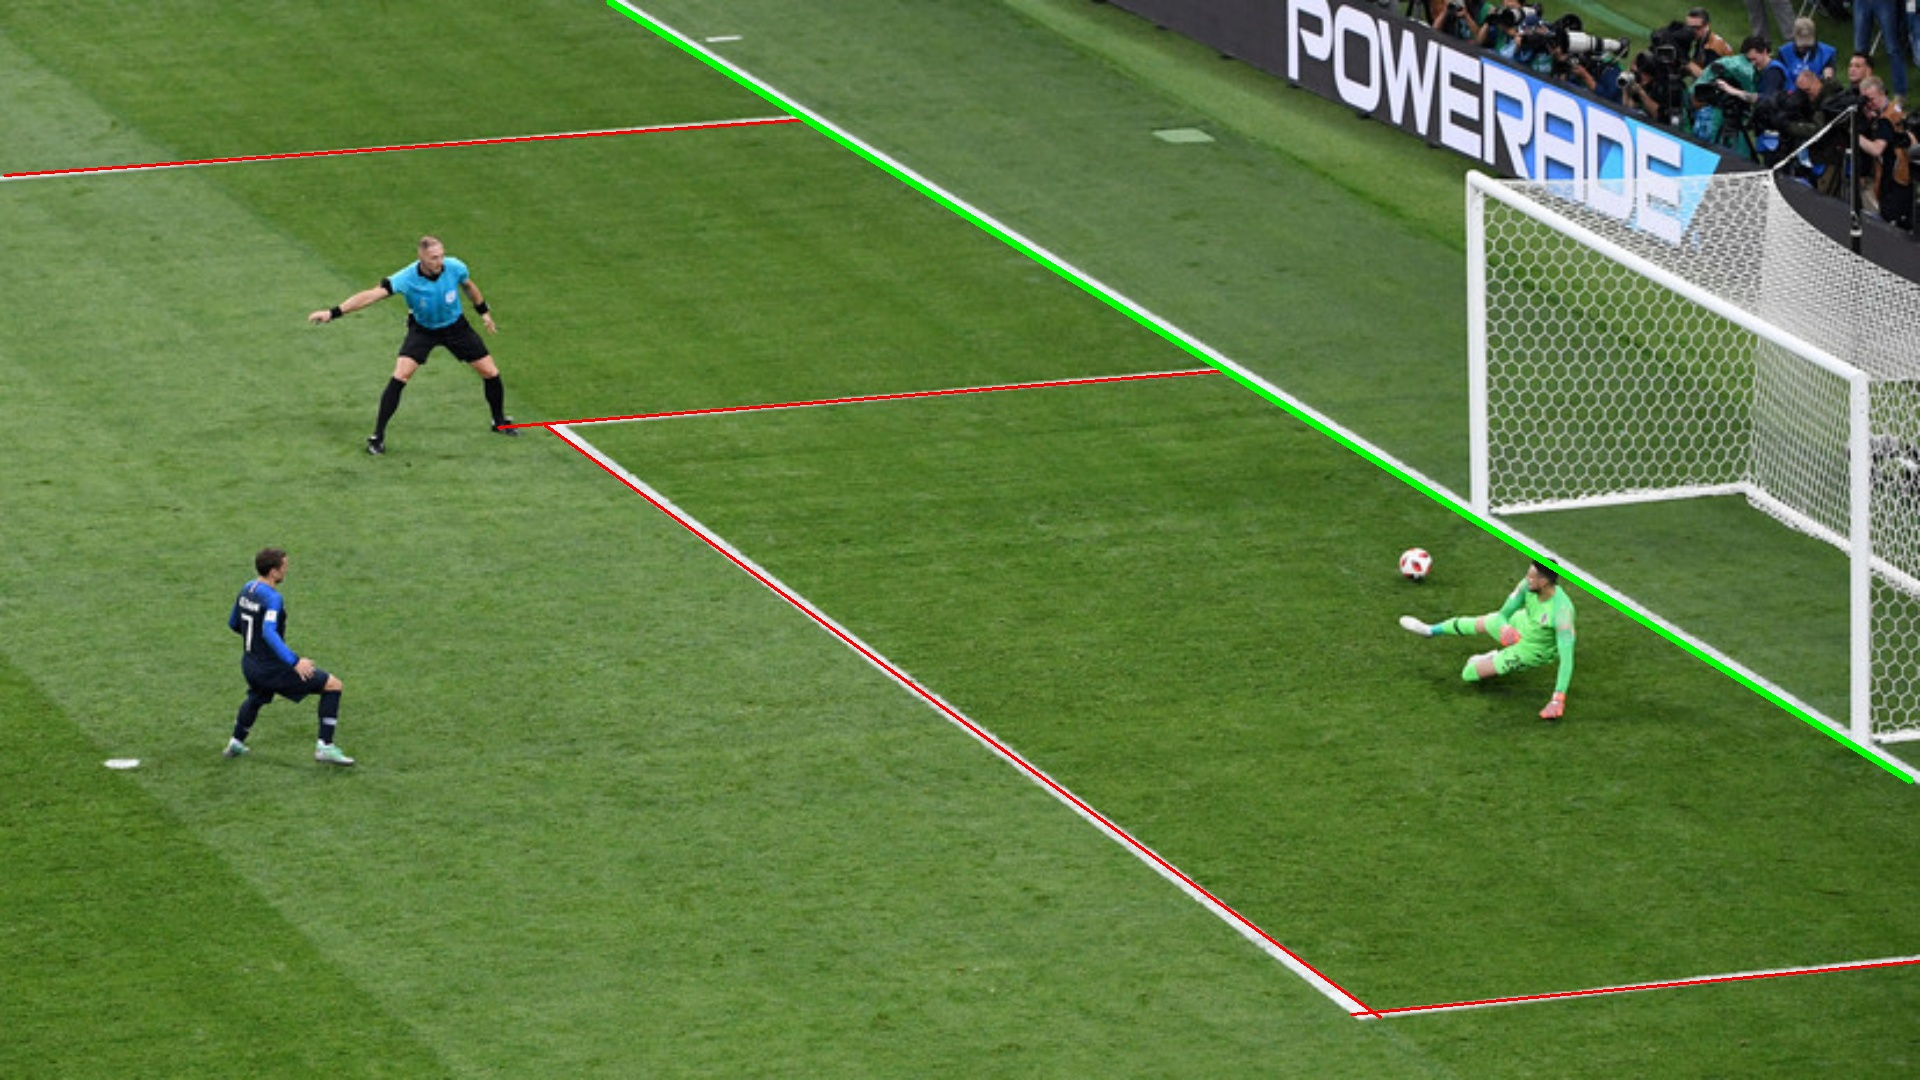
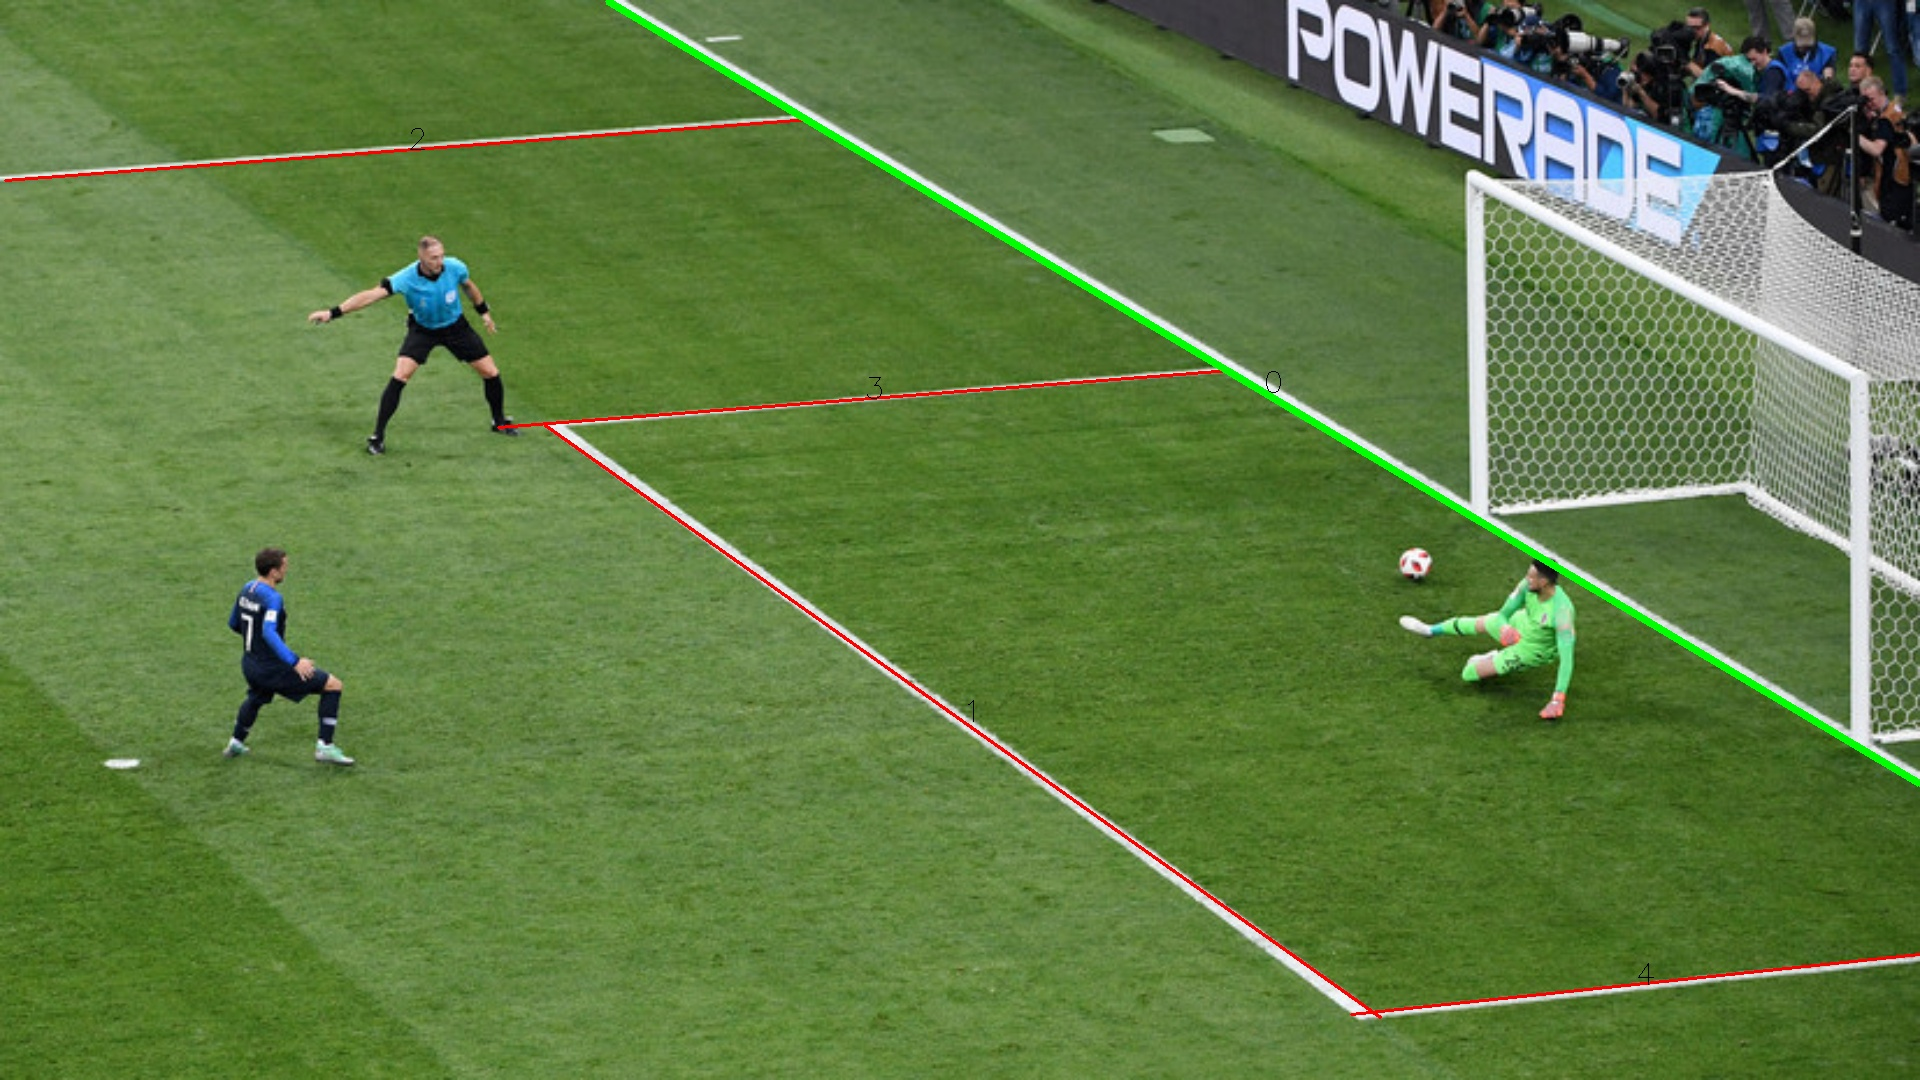
Fix

diff --git a/filter.py b/filter.py
@@ -4,6 +4,7 @@ import matplotlib.pyplot as plt
 from sklearn.cluster import DBSCAN
 from transform import add_text
 import os
+from scipy.spatial import distance
 
 
 def plot_image(img, cmap=None):
@@ -29,7 +30,7 @@ class ImageHolder:
         kernel = np.ones((15, 15), np.uint8)
 
         hsv = cv.cvtColor(cv.GaussianBlur(img, (5, 5), 5), cv.COLOR_BGR2HSV)
-        mask_green = cv.inRange(hsv, (20, 20, 60), (70, 235, 200))
+        mask_green = cv.inRange(hsv, (20, 20, 80), (70, 235, 200))
 
         mask_green = cv.morphologyEx(mask_green, cv.MORPH_OPEN, kernel)
 
@@ -152,29 +153,35 @@ class ImageHolder:
         for a, b, [x1, y1, x2, y2] in total_points:
             cv.line(self.dst_img, (x1, y1), (x2, y2), (0, 0, 255), 2)
 
-        # import copy
-        # total_points_tmp = copy.deepcopy(total_points)
-        eps = 30
-        x_lines_idx = []
-        for i, (a, b, [x1, y1, x2, y2]) in enumerate(total_points):
-            a = np.tan(a / 180)
-            x_lines_idx += [0]
-            for ii, (a_, b_, [x1_, y1_, x2_, y2_]) in enumerate(total_points):
-                a_ = np.tan(a_ / 180)
-                if abs(int(a * x1_ + b) - y1_) < eps or abs(int(a * x2_ + b) - y2_) < eps:
-                    x_lines_idx[-1] += 1
-            x_lines_idx[-1] -= 1
-        # print(x_lines_idx)
-        # a, b, [x1, y1, x2, y2] = total_points[1]
-        # cv.line(self.dst_img, (x1, y1), (x2, y2), (0, 255, 255), 5)
         len_idx = [np.sqrt((x1 - x2) ** 2 + (y1 - y2) ** 2) for a, b, [x1, y1, x2, y2] in total_points]
-        for i in range(len(total_points)):
-            total_points[i] += [len_idx[i], x_lines_idx[i]]
-
+        for i in range(len(len_idx)):
+            total_points[i] += [len_idx[i]]
         total_points_sorted = sorted(total_points, key=lambda l: l[3], reverse=True)
-        total_points_sorted_crop = total_points_sorted[:int(len(total_points_sorted))]
+        # print(total_points_sorted)
+
+        eps = 50
+        x_lines_idx = {}
+        self.x_lines_idx = x_lines_idx
+        for i, (a, b, [x1, y1, x2, y2], _) in enumerate(total_points_sorted):
+            a = np.tan(a / 180)
+            x_lines_idx[i] = []
+            for ii, (a_, b_, [x1_, y1_, x2_, y2_], _) in enumerate(total_points_sorted):
+                a_ = np.tan(a_ / 180)
+                if (abs(int(a * x1_ + b) - y1_) < eps or abs(int(a * x2_ + b) - y2_) < eps) and i != ii:
+                    x_lines_idx[i] += [ii]
+                    # cv.circle(self.dst_img, (x1_, y1_), radius=10, color=(255, 255, 255), thickness=-1)
+                    # cv.circle(self.dst_img, (x2_, y2_), radius=10, color=(255, 255, 255), thickness=-1)
+
+        for i in range(len(total_points_sorted)):
+            total_points_sorted[i] += [len(x_lines_idx[i])]
+            cv.putText(self.dst_img, f"{i}",
+                       np.mean([total_points_sorted[i][2][:2], total_points_sorted[i][2][2:]], axis=(0)).astype(int),
+                       cv.FONT_HERSHEY_SIMPLEX, 1, 2)
 
         # print(total_points_sorted)
+        # print(x_lines_idx)
+        # exit()
+        total_points_sorted_crop = total_points_sorted[:int(len(total_points_sorted))]
 
         index_max_x_lines = 0
         self.index_max_x_lines = index_max_x_lines
@@ -189,53 +196,127 @@ class ImageHolder:
                 max_len = len_
                 max_lines = x_lines
                 index_max_x_lines = i
-        # print(index_max_x_lines)
 
         a, b, [x1, y1, x2, y2], len_, x_lines = total_points_sorted_crop[index_max_x_lines]
         cv.line(self.dst_img, (x1, y1), (x2, y2), (0, 255, 0), 5)
 
-        # print(total_points_sorted)
-
         # 2D proection
-        cross_lines = []
-        eps_ = 50
-        while len(cross_lines) < 2 and eps > 0:
-            cross_lines = []
-            for a, b, [x1, y1, x2, y2], len_, x_lines in total_points_sorted:
-                a_ = np.tan(total_points_sorted_crop[index_max_x_lines][0] / 180)
-                b_ = total_points_sorted_crop[index_max_x_lines][1]
-                x1_, y1_, x2_, y2_ = total_points_sorted_crop[index_max_x_lines][2]
-                if a * total_points_sorted_crop[index_max_x_lines][0] < 0 and \
-                        (abs(int(a_ * x1 + b_) - y1) < eps or
-                         abs(int(a_ * x2 + b_) - y2) < eps) and \
-                        x_lines == 1 and abs(y2 - y2_) > eps_ and abs(y2 - y1_) > eps_:
-                    cross_lines += [[a, b, [x1, y1, x2, y2], len_, x_lines]]
-            eps_ -= 1
-        # print(cross_lines)
 
-        eps = 10
-        import copy
-        cross_lines_ = copy.deepcopy(cross_lines)
-        # print(cross_lines)
-        if len(cross_lines) > 1:
-            cross_lines = cross_lines_
-            while len(cross_lines) != 2 and eps < 200:
-                for i in range(1, len(cross_lines)):
-                    a, b, [x1, y1, x2, y2], len_, x_lines = cross_lines[i]
-                    if abs(len_ - cross_lines[i-1][3]) < eps:
-                        cross_lines = cross_lines[i-1:i+1]
-                        break
-                eps += 10
-        # print(cross_lines)
-        if len(cross_lines) == 2:
-            a1, a2 = cross_lines[0][0], cross_lines[1][0]
-            if a1 < 0 and cross_lines[0][2][0] > cross_lines[1][2][0]:
-                cross_lines.reverse()
-            x1, y1, x2, y2 = cross_lines[0][2]
-            x3, y3, x4, y4 = cross_lines[1][2]
-            self.dst_img = add_text(image=self.dst_img, im_pts=[[x1, y1], [x2, y2], [x3, y3], [x4, y4]],
-                                    zone=1, draw_lines=False)
-        # print(cross_lines)
+        # print(x_lines_idx[index_max_x_lines])
+        # print([x_lines_idx[key] for key in x_lines_idx[index_max_x_lines]])
+
+        idx_lines = []
+        try:
+            tmp = [x_lines_idx[key] for key in x_lines_idx[index_max_x_lines]]
+            set_ = set()
+            for i, list_ in enumerate(tmp):
+                if list_:
+                    set_ = set_.union(set(list_))
+            set_.remove(1)
+            idx_lines = []
+            for i, list_ in enumerate(tmp):
+                if list_ and len(idx_lines) < 2:
+                    for val in list_:
+                        if val in set_:
+                            idx_lines += [x_lines_idx[index_max_x_lines][i]]
+                            break
+        except:
+            pass
+
+        print(idx_lines)
+        if len(idx_lines) == 2:
+
+            idx1, idx2 = idx_lines[0], idx_lines[1]
+            if np.mean([total_points_sorted[idx1][2][0], total_points_sorted[idx1][2][2]]) > np.mean([total_points_sorted[idx2][2][0], total_points_sorted[idx2][2][2]]):
+                idx_lines.reverse()
+            idx1, idx2 = idx_lines[0], idx_lines[1]
+
+            p0, p1, p2, p3 = total_points_sorted[idx1][2][:2], total_points_sorted[idx1][2][2:], \
+                             total_points_sorted[idx2][2][:2], total_points_sorted[idx2][2][2:]
+            print(total_points_sorted[idx1], total_points_sorted[idx2])
+
+            # cv.circle(self.dst_img, p0, radius=10, color=(255, 255, 255), thickness=-1)
+            self.dst_img = add_text(self.dst_img, [p0, p1, p2, p3])
+
+
+
+        # cv.circle(self.dst_img, total_points_sorted[2][2][2:], radius=10, color=(255, 255, 255), thickness=-1)
+
+
+        # exit()
+        # keys = list(x_lines_idx.keys())
+        # best_keys = None
+        # for index1 in keys:
+        #     for index2 in keys[index1:]:
+        #         if index1 == index2:
+        #             break
+        #         for n in x_lines_idx[index1]:
+        #             if n in x_lines_idx[index2]:
+        #                 best_keys = (index1, index2)
+        #                 break
+        #         if best_keys is not None: break
+        #     if best_keys is not None: break
+        #
+        # print(best_keys)
+
+
+
+
+        # a_best = total_points_sorted_crop[index_max_x_lines][0]
+        # for i, (a, b, [x1, y1, x2, y2], len_, x_lines) in enumerate(total_points_sorted):
+        #     if a * a_best > 0 and x_lines == 2 and i != index_max_x_lines:
+        #         print(a, b, [x1, y1, x2, y2], len_, x_lines)
+        #         # print(x_lines_idx[i])
+        #         line_idx_1, line_idx_2 = x_lines_idx[i][0], x_lines_idx[i][1]
+        #         print(total_points_sorted[line_idx_1])
+        #         print(total_points_sorted[line_idx_2])
+        #
+        #         point_left = (total_points_sorted[i][2][0], total_points_sorted[i][2][1])
+        #         point_right = (total_points_sorted[i][2][2], total_points_sorted[i][2][3])
+        #
+        #         print(point_left, point_right)
+        #
+        #         points = [(total_points_sorted[line_idx_1][2][0], total_points_sorted[line_idx_1][2][1]),
+        #                          (total_points_sorted[line_idx_1][2][2], total_points_sorted[line_idx_1][2][3]),
+        #                          (total_points_sorted[line_idx_2][2][0], total_points_sorted[line_idx_2][2][1]),
+        #                          (total_points_sorted[line_idx_2][2][0], total_points_sorted[line_idx_2][2][1])]
+        #
+        #         def calc(point_main, points):
+        #             min_i = 0
+        #             dist = np.inf
+        #             for i, point in enumerate(points):
+        #                 if distance.euclidean(point, point_main) < dist:
+        #                     dist = distance.euclidean(point, point_main)
+        #                     min_i = i
+        #             if min_i % 2 == 1:
+        #                 min_i -= 1
+        #             else:
+        #                 min_i += 1
+        #             return min_i
+        #
+        #         p0 = point_left
+        #         p1 = points[calc(point_left, points)]
+        #         p2 = point_right
+        #         p3 = points[calc(point_right, points)]
+
+                # print([[x1, y1], [x2, y2], [x3, y3], [x4, y4]])
+                # cv.circle(self.dst_img, p0, radius=10, color=(255, 255, 255), thickness=-1)
+                # cv.circle(self.dst_img, p1, radius=10, color=(255, 255, 255), thickness=-1)
+                # cv.circle(self.dst_img, p2, radius=10, color=(255, 255, 255), thickness=-1)
+                # cv.circle(self.dst_img, p3, radius=10, color=(255, 255, 255), thickness=-1)
+                # self.dst_img = add_text(self.dst_img, [p0, p1, p2, p3])
+                # cv.imshow("", self.dst_img)
+                # cv.waitKey()
+
+
+        # line_idx_1, line_idx_2 = x_lines_idx[best_idx][0], x_lines_idx[best_idx][1]
+        # x1, y1, x2, y2, x3, y3, x4, y4 = total_points_sorted[best_idx][2][0], total_points_sorted[best_idx][2][1],\
+        #                                  total_points_sorted[line_idx_1][2][2], total_points_sorted[line_idx_1][2][3],\
+        #                                  total_points_sorted[best_idx][2][2], total_points_sorted[best_idx][2][3], \
+        #                                  total_points_sorted[line_idx_2][2][2], total_points_sorted[line_idx_2][2][3],
+        # print([x1, y1])
+        # self.dst_img = cv.circle(self.dst_img, [x1, y1], radius=10, color=(255, 255, 255), thickness=-1)
+        # self.dst_img = add_text(self.dst_img, [[x1, y1], [x2, y2], [x3, y3], [x4, y4]])
 
         self.save_image()
         return total_points_sorted, self.dst_img
